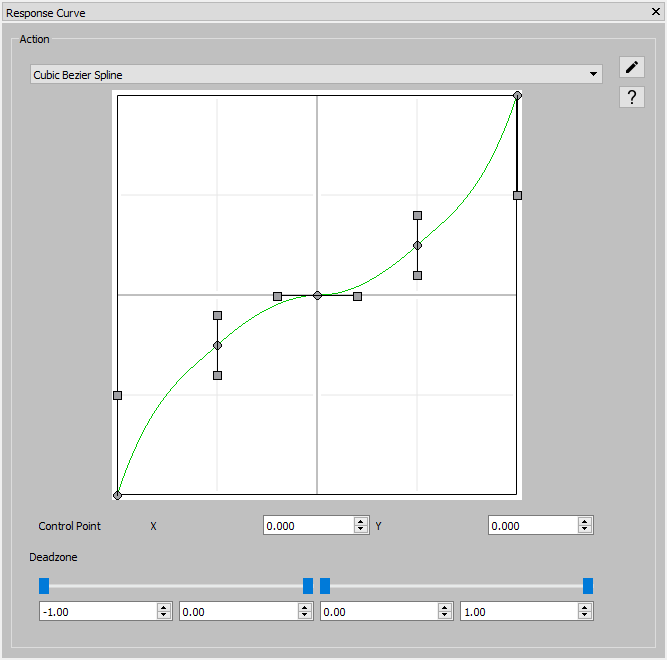
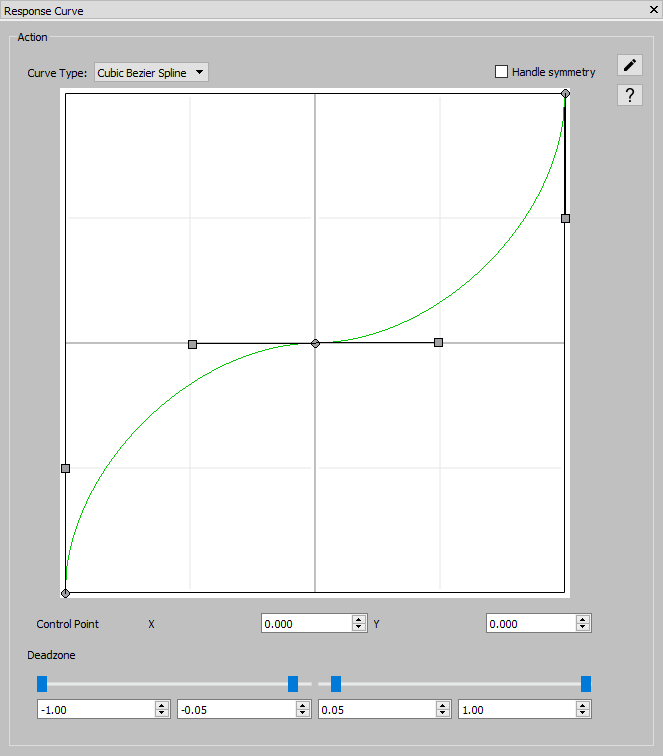
R8.1 updates

Changed region(s): [[0.0, 0.0, 1.0, 1.0], [0.6033, 0.303, 0.6335, 0.3333]]

diff --git a/interface/index.html b/interface/index.html
@@ -93,28 +93,34 @@ layout: default
             <td>Pause</td>
         </tr>
         <tr>
+            <td><img class="img-responsive" src="{{ site.baseurl }}/images/icon_play_sound.png"></td>
+            <td>Play sound</td>
             <td><img class="img-responsive" src="{{ site.baseurl }}/images/icon_remap_axis_001.png"></td>
             <td>Remap axis</td>
+        </tr>
+        <tr>
             <td><img class="img-responsive" src="{{ site.baseurl }}/images/icon_remap_button_001.png"></td>
             <td>Remap button</td>
-        </tr>
-        <tr>
             <td><img class="img-responsive" src="{{ site.baseurl }}/images/icon_remap_hat_001.png"></td>
             <td>Remap hat</td>
+        </tr>
+        <tr>
             <td width="50px"><img class="img-responsive" src="{{ site.baseurl }}/images/icon_response_curve.png"></td>
             <td>Response curve</td>
-        </tr>
-        <tr>
             <td><img class="img-responsive" src="{{ site.baseurl }}/images/icon_resume.png"></td>
             <td>Resume</td>
-            <td><img class="img-responsive" src="{{ site.baseurl }}/images/icon_split_axis.png"></td>
-            <td>Split axis</td>
         </tr>
         <tr>
+            <td><img class="img-responsive" src="{{ site.baseurl }}/images/icon_split_axis.png"></td>
+            <td>Split axis</td>
             <td><img class="img-responsive" src="{{ site.baseurl }}/images/icon_switch_mode.png"></td>
             <td>Switch mode</td>
+        </tr>
+        <tr>
             <td><img class="img-responsive" src="{{ site.baseurl }}/images/icon_previous_mode.png"></td>
             <td>Switch to previous mode</td>
+            <td><img class="img-responsive" src="{{ site.baseurl }}/images/icon_temporary_mode_switch.png"></td>
+            <td>Temporary mode switch</td>
         </tr>
         <tr>
             <td><img class="img-responsive" src="{{ site.baseurl }}/images/icon_text_to_speech.png"></td>
@@ -427,6 +433,25 @@ layout: default
 </p>
 
 
+<h4 class="subsection">Temporary Mode Switch</h4>
+
+<div class="row bottom-gap">
+    <div class="col-md-7">
+        <img class="img-responsive center-block" src="{{ site.baseurl }}/images/action_temporary_mode_switch.png">
+    </div>
+    <div class="col-md-5">
+        <em>Temporary mode switch dialogue which allows specifying a mode to
+            switch to as long as the action is triggered, i.e. the "button" is
+            held down.</em>
+    </div>
+</div>
+
+<p class="text-justify">
+    This action will change the current mode to the one specified when the
+    button or button-like input is pressed. When the input is released the mode
+    will automatically be changed back to the previous one.
+</p>
+
 <h4 class="subsection">Switch to Previous Mode</h4>
 
 <div class="row bottom-gap">
@@ -488,6 +513,25 @@ layout: default
 <p class="text-justify">
     This action allows splitting a single physical axis into two virtual ones.
     The value at which the physical axis is split can be adjusted by the user.
+</p>
+
+
+<h4 class="subsection">Play Sound</h4>
+
+<div class="row bottom-gap">
+    <div class="col-md-7">
+        <img class="img-responsive center-block" src="{{ site.baseurl }}/images/action_play_sound.png">
+    </div>
+    <div class="col-md-5">
+        <em>Plays the sound file specified at the given volume when the action
+            is triggered.</em>
+    </div>
+</div>
+
+<p class="text-justify">
+    This action allows the specification of a sound to be played with the
+    desired volume when the action is triggered. Only one sound can be played
+    at a time and new sounds will interrupt currently running ones.
 </p>
 
 

diff --git a/download/index.html b/download/index.html
@@ -6,45 +6,35 @@ area: download
 
 <div class="row">
     <div class="col-md-6">
-        <h2>Release 8</h2>
+        <h2>Release 8.1</h2>
     </div>
     <div class="col-md-6 text-right">
-        <h2><small>2017-07-08</small></h2>
+        <h2><small>2017-08-20</small></h2>
     </div>
 </div>
 
 <a class="btn btn-primary"
-    href="https://github.com/WhiteMagic/JoystickGremlin/releases/download/Release_8/Joystick.Gremlin.R8.msi">Download
-    Release 8 MSI</a>
+    href="https://github.com/WhiteMagic/JoystickGremlin/releases/download/Release_8/Joystick.Gremlin.R8.1.msi">Download
+    Release 8.1 MSI</a>
 <a class="btn btn-primary"
-    href="https://github.com/WhiteMagic/JoystickGremlin/releases/download/Release_8/Joystick.Gremlin.R8.zip">Download
-    Release 8 ZIP</a>
+    href="https://github.com/WhiteMagic/JoystickGremlin/releases/download/Release_8/Joystick.Gremlin.R8.1.zip">Download
+    Release 8.1 ZIP</a>
 
 
 <h3>Change log</h3>
 
 <h4>New Features</h4>
 <ul>
-    <li>New container and action system</li>
-    <ul>
-        <li>Actions are now placed inside containers</li>
-        <li>Containers come in different varieties, such as basic, chain, and tempo</li>
-    </ul>
-    <li>New map to keyboard action</li>
-    <li>vJoy axis initialization value customization</li>
-    <li>Ability to map hat directions to vJoy buttons</li>
-    <li>Ability to select processes for automatic profile activation from a list</li>
-    <li>Listing of recently used profiles</li>
-    <li>Improved macro action functionalities</li>
-    <li>Restore last known position and size of the main window</li>
-    <li>Basic help / hint system started</li>
+    <li>Ask to save changes when appropriate</li>
+    <li>Temporary mode switch action</li>
+    <li>Sound playback action</li>
+    <li>Symmetry mode for Bezier curve handles</li>
 </ul>
 
 <h4>Fixes</h4>
 <ul>
-    <li>Rewritten UI</li>
-    <li>Code generation changes</li>
-    <li>Properly handle non-consecutive vJoy axis setups</li>
-    <li>Better handling of international keyboards and layouts</li>
-    <li>Improve vJoy error handling</li>
+    <li>AltGr and Pause should now work properly</li>
+    <li>Reworked cubic Bezier curves</li>
+    <li>Properly store curve type changes</li>
+    <li>Consistent initial activation mode selection</li>
 </ul>

diff --git a/changelog/index.html b/changelog/index.html
@@ -7,6 +7,25 @@ layout: default
 <h2><a name="7">7. Changelog</a></h2>
 
 
+<h3>Release 8.1</h3>
+
+<h4>New Features</h4>
+<ul>
+    <li>Ask to save changes when appropriate</li>
+    <li>Temporary mode switch action</li>
+    <li>Sound playback action</li>
+    <li>Symmetry mode for Bezier curve handles</li>
+</ul>
+
+<h4>Fixes</h4>
+<ul>
+    <li>AltGr and Pause should now work properly</li>
+    <li>Reworked cubic Bezier curves</li>
+    <li>Properly store curve type changes</li>
+    <li>Consistent initial activation mode selection</li>
+</ul>
+
+
 <h3>Release 8</h3>
 
 <h4>New Features</h4>
